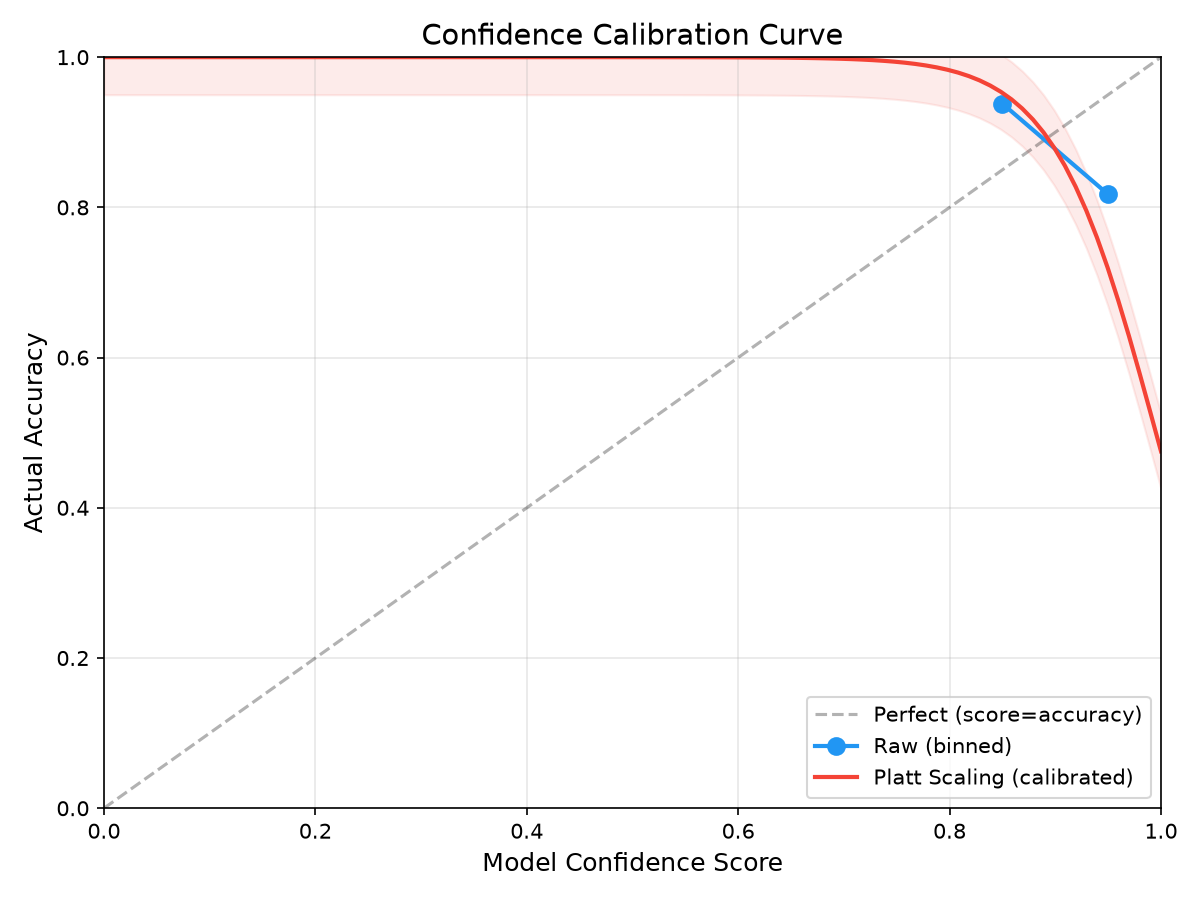
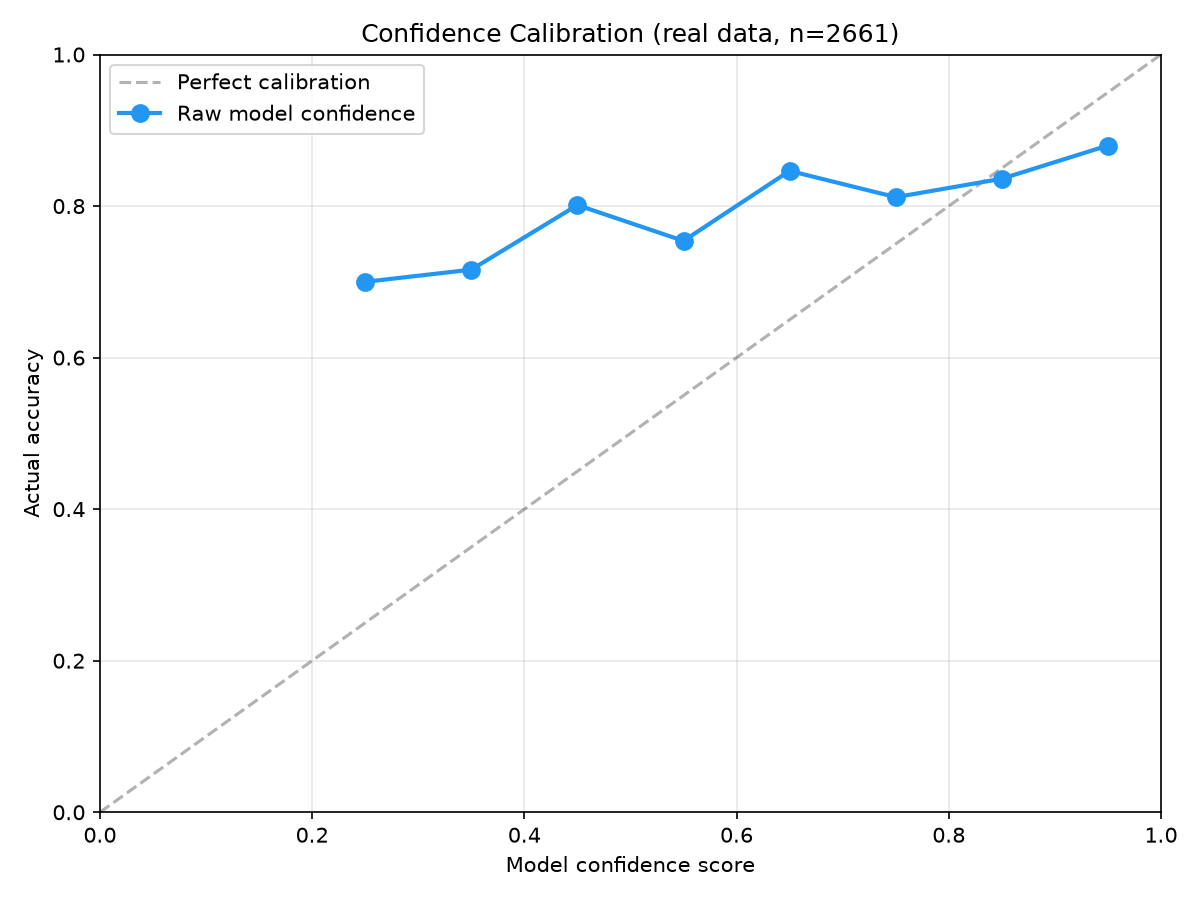
fix: Demo 图表全部换成真实数据版 (删假预测图3张, 重生成校准曲线 n=2661)

diff --git a/src/web/app.py b/src/web/app.py
@@ -29,9 +29,9 @@ NOISE_SUMMARY = ROOT / "docs" / "experiments" / "noise_summary_seisbench.csv"
 STALTA_SUMMARY = ROOT / "docs" / "experiments" / "stalta_summary.json"
 CPU_BENCHMARK = ROOT / "docs" / "experiments" / "cpu_benchmark.json"
 BASELINE_CHARTS = (
-    ROOT / "docs" / "experiments" / "baseline_final_comparison.png",
-    ROOT / "docs" / "experiments" / "risk_coverage_curve.png",
-    ROOT / "docs" / "experiments" / "ablation.png",
+    ROOT / "docs" / "experiments" / "real_baseline.png",
+    ROOT / "docs" / "experiments" / "real_ablation.png",
+    ROOT / "docs" / "experiments" / "calibration_curve.png",
 )
 
 STATUS_LABELS = {
